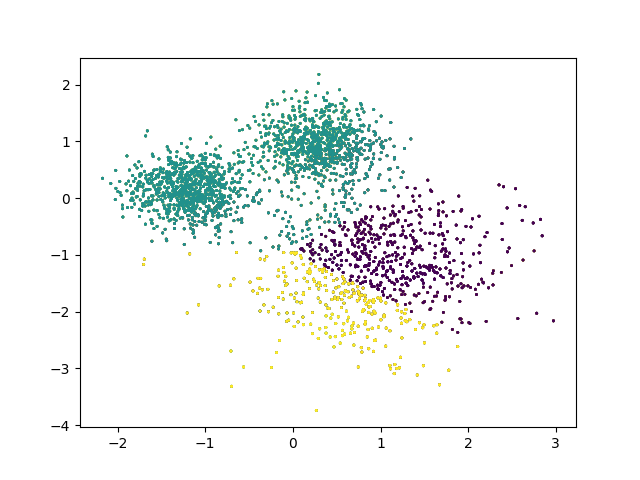
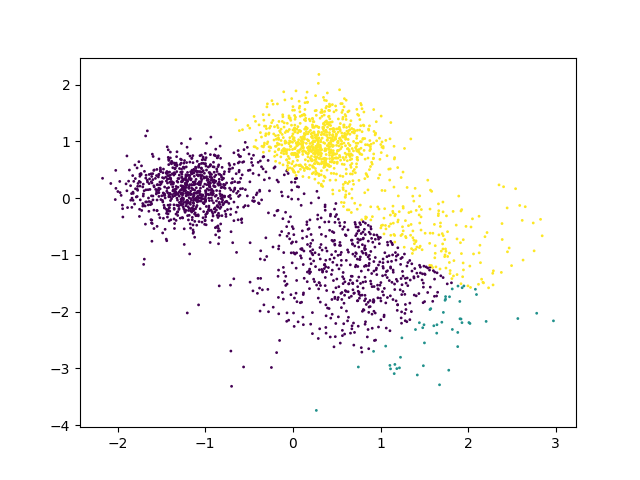
Checkpoint

Changed region(s): [[0.1562, 0.1875, 0.7812, 0.75], [0.7188, 0.6562, 0.75, 0.6875], [0.5938, 0.75, 0.625, 0.7812]]

diff --git a/Testing/testing.py b/Testing/testing.py
@@ -3,6 +3,7 @@ from abc import ABC,abstractmethod
 import numpy as np
 import math
 from collections import OrderedDict 
+import threading
 
 # Data Sets (x4)
 # 5 levels of noice per data set
@@ -27,20 +28,38 @@ class DataSetCollection:
     data = None
     labeled_data = None
     noice_levels = ["vhigh", "high", "med", "low", "vlow"]
-    data_sets_names = ["moons", "circles", "longblobs", "blobs"]
+    # data_sets_names = ["moons", "circles", "longblobs", "blobs", "blobs2", "circle-grouped", "blobs-grouped"]
+    data_sets_names = ["blobs-grouped"]
+    data_sets_names_validate = ["blobs", "blobs2", "circle", "blobs"]
     count_map = {
         "circles" : 2, 
         "moons": 2, 
         "blobs": 3, 
-        "longblobs": 3
+        "longblobs": 3,
+        "blobs2": 3,
+        "circle-grouped": 4,
+        "blobs-grouped": 10,
+    }
+    file_map = {
+        "moons" : ("data", "circles"),
+        "circles": ("data", "circles"),
+        "longblobs": ("data", "longblobs"),
+        "blobs": ("data", "blobs"),
+        "blobs2": ("data", "blobs2"),
+        "circle-grouped": ("data_grouped", "circle"),
+        "blobs-grouped": ("data_grouped", "blobs"),
     }
 
     def __init__(self):
         self.data = np.load("Data/sklearn_data.npz") # update for path
         self.labeled_data = np.load("Data/sklearn_labels.npz") # update for path
+        self.data_grouped = np.load("Data/multigroup_data.npz") # update for path
+        self.labeled_data_grouped = np.load("Data/multigroup_labels.npz") # update for path
     
     def construct_key(self, name, noice_level):
-        assert(name in self.data_sets_names)
+        if name not in self.data_sets_names_validate:
+            print("INVALID NAME: ", name)
+        assert(name in self.data_sets_names_validate)
         assert(noice_level in self.noice_levels)
         return name + "_" + noice_level + "_" + "noise"
     
@@ -48,10 +67,18 @@ class DataSetCollection:
         return self.get_data_set(name, noice_level), self.get_label_set(name, noice_level)
 
     def get_data_set(self, name, noice_level):
-        return self.data[self.construct_key(name,noice_level)][::4]
+        location,key = self.file_map[name]
+        data_source = getattr(self, location)
+        res = data_source[self.construct_key(key,noice_level)][::4]
+        print("res", res)
+        return res
     
     def get_label_set(self, name, noice_level):
-        return self.labeled_data[self.construct_key(name,noice_level)][::4]
+        location,key = self.file_map[name]
+        data_source = getattr(self, "labeled_"+location)
+        res = data_source[self.construct_key(key,noice_level)][::4]
+        print("res_labels", res)
+        return res
 
 class DataSet:
     data = None
@@ -286,7 +313,7 @@ def som():
     random.seed(params['SEED'])
     basic(partial(SOM_server, params=params), partial(SOM_Device, params=params))
 
-from Algorithms.k_means import CURE_Server,K_Means_Device,CURE_Server_Carry,CURE_Server_Keep
+from Algorithms.k_means import CURE_Server,K_Means_Device,CURE_Server_Carry,CURE_Server_Keep, KMeans_Server, KMeans_Server_Carry, KMeans_Server_Keep
 def cure():
     params = {"N_CLUSTERS": 10,
           "MAX_ITERS": 100,
@@ -435,11 +462,12 @@ def run_tests(tests, data_sets = collection.data_sets_names, levels = collection
                     num_devices_per_group_per_round,))
                 processes.append(p)
                 p.start()
+                p.join()
                 
                 # results_dict[key][test["name"]] = acc
             
-    for process in processes:
-        process.join()
+    # for process in processes:
+    #     process.join()
     
     return results_dict
 
@@ -469,18 +497,31 @@ def create_tests():
         # },
     ]
 
-    k_means_servers = [{
-        "name": "",
-        "server": CURE_Server,
-    },
+    k_means_servers = [
+    #     {
+    #     "name": "",
+    #     "server": CURE_Server,
+    # },
+    # {
+    #     "name": " Carry",
+    #     "server": CURE_Server_Carry
+    # },
+    # {
+    #     "name": " Keep",
+    #     "server": CURE_Server_Keep
+    # },
     {
-        "name": " Carry",
-        "server": CURE_Server_Carry
+        "name": "KMeans Server",
+        "server": KMeans_Server
     },
-    {
-        "name": " Keep",
-        "server": CURE_Server_Keep
-    }
+    # {
+    #     "name": "KMeans Server Carry",
+    #     "server": KMeans_Server_Carry
+    # },
+    # {
+    #     "name": "KMeans Server Keep",
+    #     "server": KMeans_Server_Keep
+    # }
     ]
     for k in k_means_servers:
         # Cure
@@ -565,11 +606,12 @@ def evaluate_accuracy_evolution():
     tests = create_tests()
 
     results = run_tests(tests,
-        data_sets = collection.data_sets_names[-1:], 
-        levels = collection.noice_levels[-3:-1],
+        data_sets = collection.data_sets_names, 
+        levels = collection.noice_levels[:-1],
         number_of_rounds = 8)
     
     # print("round acc", results)
+    save_test_results(results)
 
     if ENABLE_ROUND_PROGRESS_PLOT: 
         plot_rounds(results)

diff --git a/Algorithms/k_means.py b/Algorithms/k_means.py
@@ -212,3 +212,53 @@ class CURE_Server_Keep(CURE_Server):
         if self.prev_round_info is None:
             self.prev_round_info = self.clusters_from_devices
         self.clusters_from_devices = np.concatenate((self.clusters_from_devices, self.prev_round_info), axis=0)
+
+from sklearn.cluster import KMeans
+class KMeans_Server(CURE_Server):
+    current_model = None
+    def run_on_server(self, clusters_from_devices = None):
+        if clusters_from_devices is None: clusters_from_devices = self.clusters_from_devices
+
+        kmeans = KMeans(n_clusters=self._n_clusters, random_state=0).fit(clusters_from_devices)
+
+        representors = kmeans.cluster_centers_
+        self.representors = representors
+        self.server_clusters = np.vstack(representors)
+
+        self.current_model = kmeans
+    
+    def classify(self,data):
+        return self.current_model.predict(data)
+
+class KMeans_Server_Carry(KMeans_Server):
+    prev_round_info = None
+    def update_server(self, reports_from_devices):
+        # Save current state before update
+        # print("previous varify clusters", self.clusters_from_devices)
+        self.prev_round_info = self.clusters_from_devices
+        # Now update
+        super().update_server(reports_from_devices)
+        # print("previous varify clusters", self.prev_round_info)
+    
+    def run_on_server(self):
+        # Combine last and current state
+        # print("device clusters", self.clusters_from_devices)
+        if self.prev_round_info is None:
+            self.prev_round_info = self.clusters_from_devices
+        # print("previous clusters", self.prev_round_info)
+        clusters = np.concatenate((self.clusters_from_devices, self.prev_round_info), axis=0)
+        # print("concat", clusters)
+        # clusters = None
+        # Okay now run as normal
+        super().run_on_server(clusters)
+
+class KMeans_Server_Keep(KMeans_Server):
+    prev_round_info = None
+    def update_server(self, reports_from_devices):
+        # Save current state before update
+        self.prev_round_info = self.clusters_from_devices
+        # Now update
+        super().update_server(reports_from_devices)
+        if self.prev_round_info is None:
+            self.prev_round_info = self.clusters_from_devices
+        self.clusters_from_devices = np.concatenate((self.clusters_from_devices, self.prev_round_info), axis=0)
